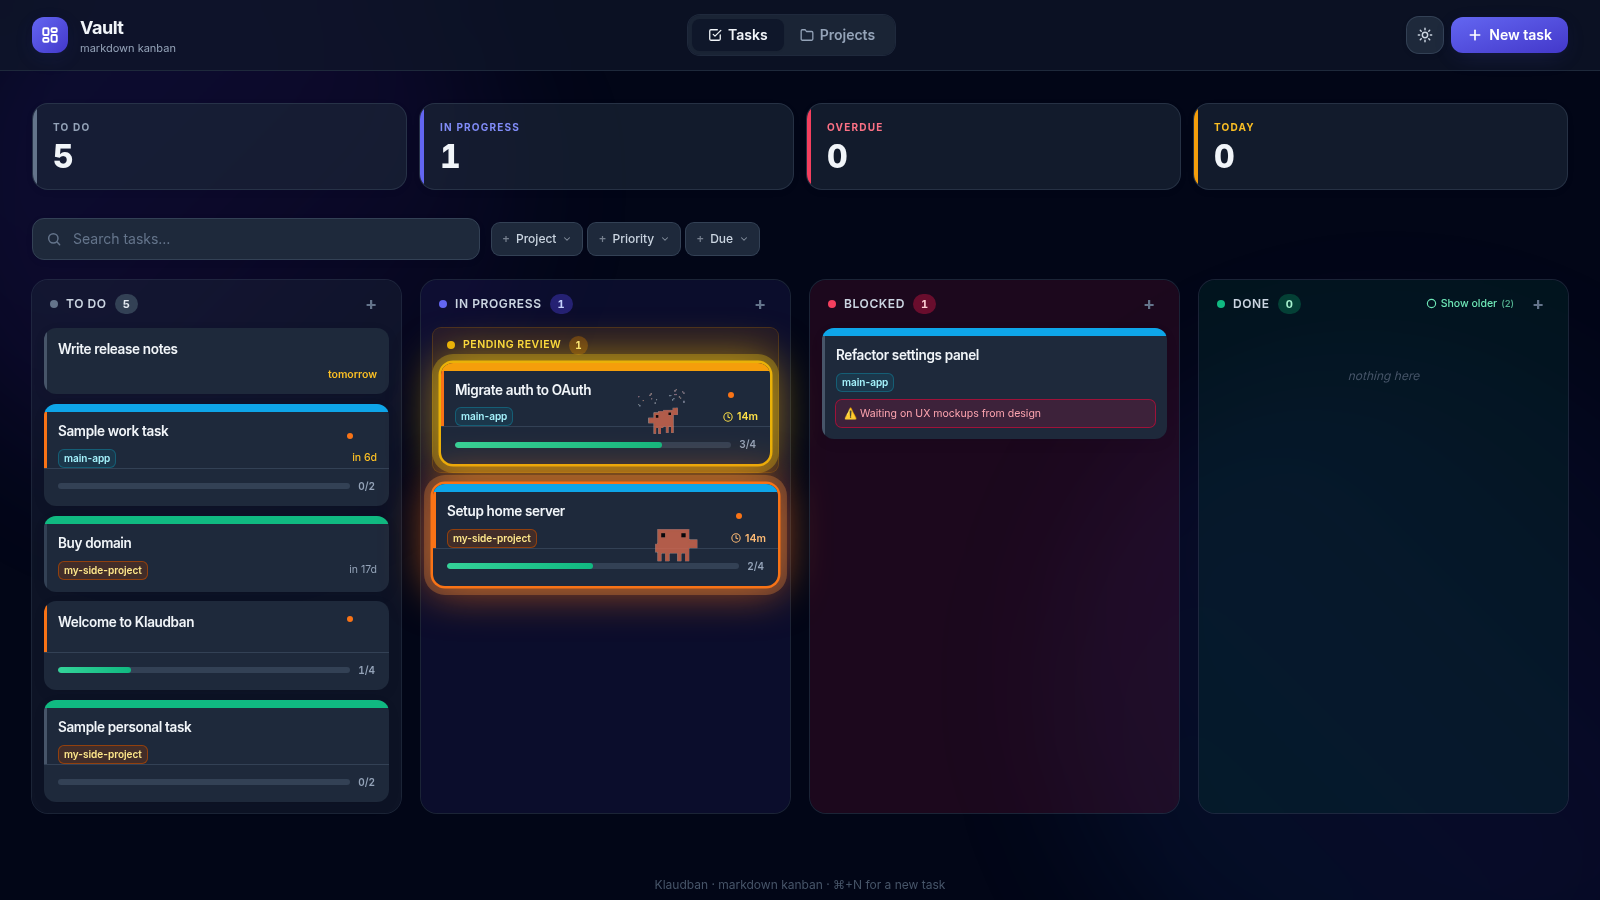
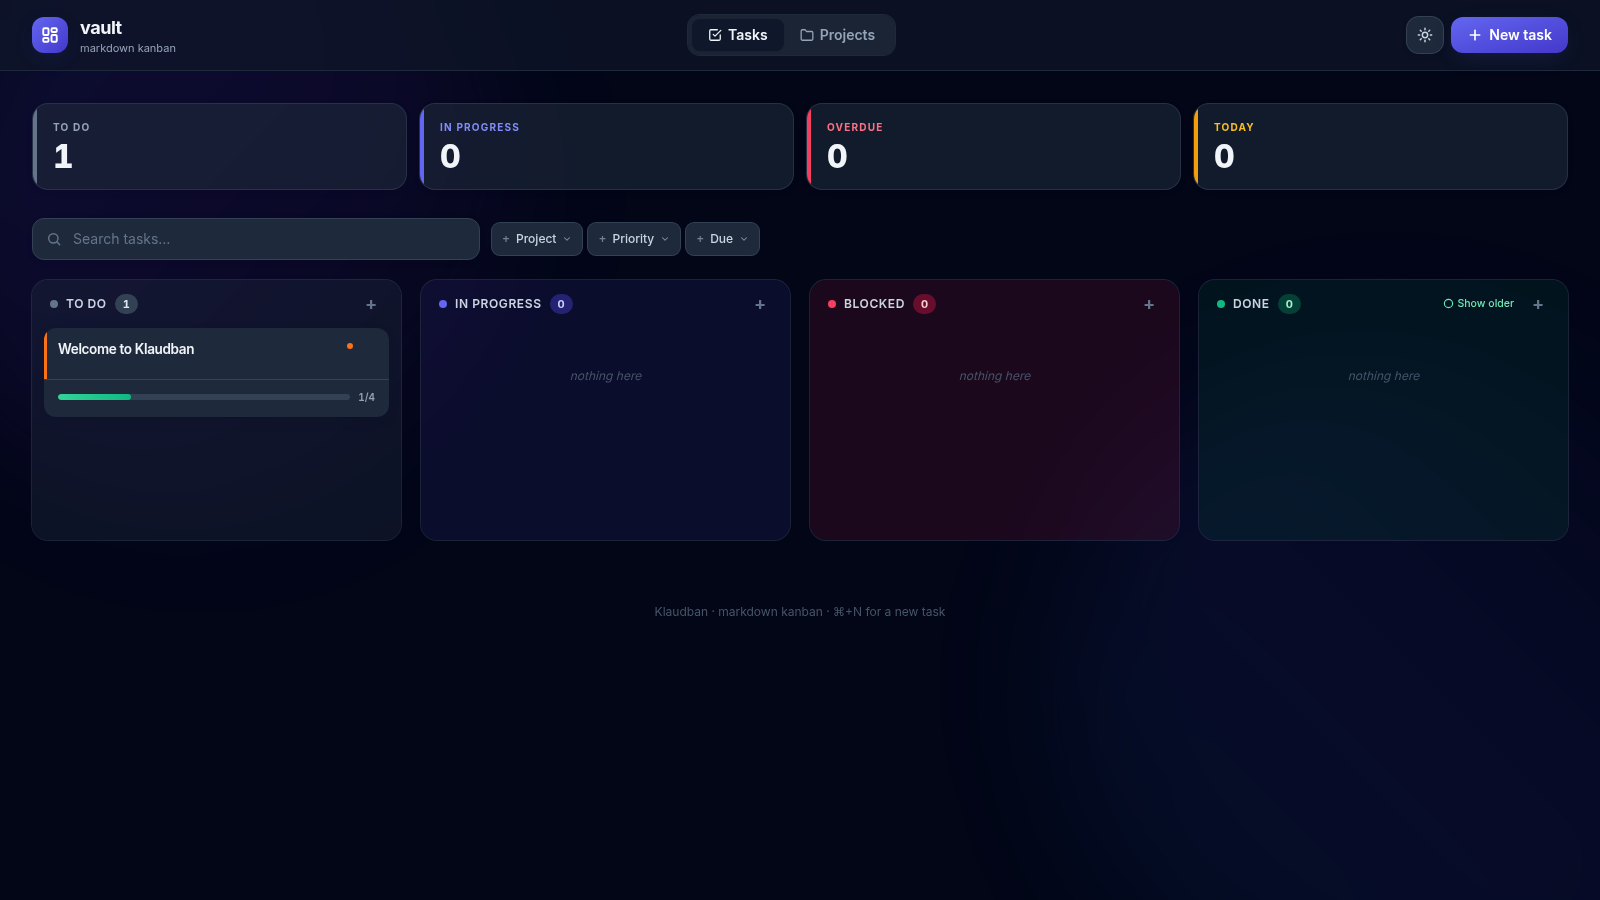
Header title derives from tasksDir folder name (fallback: Klaudban)
Empty ui.title in config now means 'use the parent folder of tasksDir', so a
real Obsidian vault at /Users/me/MyVault/tasks gets 'MyVault' in the header
automatically without configuration. Users who want a fixed header still set
ui.title explicitly.

diff --git a/src/lib/config.ts b/src/lib/config.ts
@@ -64,7 +64,7 @@ const DEFAULTS: AppConfig = {
   },
   ui: {
     timezone: 'UTC',
-    title:    'Vault',
+    title:    '',          // empty = derive from tasksDir parent folder name
     locale:   'en',
   },
   claude: {
@@ -108,6 +108,23 @@ const fileConfig = loadFromFile();
 export const CONFIG: AppConfig = deepMerge(DEFAULTS, fileConfig);
 
 export const VAULT_TASKS   = resolve(process.cwd(), CONFIG.vault.tasksDir);
+
+/**
+ * Derive a human-friendly title for the header. Priority:
+ *   1. `ui.title` from config (if explicitly set)
+ *   2. the parent folder of `tasksDir` (e.g. `vault/tasks` → "vault", a real
+ *      Obsidian vault at `/Users/me/MyVault/tasks` → "MyVault")
+ *   3. fallback to "Klaudban"
+ *
+ * Using the folder name as default makes the header reflect the user's vault
+ * without them having to configure anything — point `tasksDir` at your real
+ * Obsidian directory and the header takes its name automatically.
+ */
+function deriveVaultName(): string {
+  const segments = VAULT_TASKS.replace(/\/+$/, '').split('/');
+  return segments[segments.length - 2] || '';
+}
+export const HEADER_TITLE: string = CONFIG.ui.title || deriveVaultName() || 'Klaudban';
 export const VAULT_PROJECTS = resolve(process.cwd(), CONFIG.vault.projectsDir);
 export const VAULT_EMBEDS   = resolve(process.cwd(), CONFIG.vault.embedsDir);
 export const VAULT_DONE     = join(VAULT_TASKS, 'done');

diff --git a/README.md b/README.md
@@ -90,7 +90,7 @@ cp klaudban.config.example.json klaudban.config.json
   },
   "ui": {
     "timezone": "UTC",                   // IANA tz for "today" / "due today" filters
-    "title":    "Vault"                  // text in the header
+    "title":    ""                     // empty → derived from tasksDir parent folder; e.g. "./vault/tasks" → "vault". Fallback "Klaudban".
   },
   "claude": {
     "enabled":    false,                 // true to show the "copy prompt" buttons and the bell
